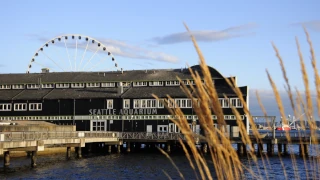
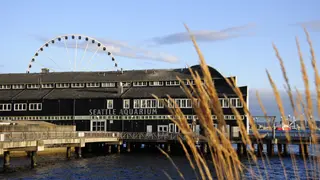
Aggiunto itinerario Twilight

diff --git a/itinerari/usa/pacific-north-west-twilight/scheda.md b/itinerari/usa/pacific-north-west-twilight/scheda.md
@@ -1,0 +1,69 @@
+Ci sono viaggi che fai per vedere un posto. E poi ce ne sono altri in cui parti sapendo che quel posto esiste davvero, ma dentro di te sai già che, una volta arrivata, non sarà più soltanto un luogo. Forks è uno di questi.
+
+Per chi non ha mai letto *Twilight*, è solo una piccola città della penisola olimpica, nel nord-ovest dello Stato di Washington, circondata da foreste e pioggia. Per chi ha letto il libro, invece, è il luogo in cui Bella Swan arrives lasciandosi alle spalle Phoenix, dove incontra Edward Cullen e dove la pioggia diventa un personaggio a sé. Noi siamo arrivate lì dopo aver attraversato una parte del Pacific Northwest: a quel punto il viaggio ha smesso di essere una semplice vacanza ed è diventato un modo per entrare dentro una storia.
+
+---
+
+## Port Angeles: le prime pagine della storia
+
+Il nostro viaggio comincia a **Port Angeles**. Nel romanzo è qui che Bella trascorre una delle prime serate lontano da Forks, si ritrova in difficoltà e viene salvata da Edward. 
+
+Entrare da **Bella Italia**, il ristorante della loro prima cena, ha qualcosa di straniante: non è più soltanto un nome sulla pagina, ma un luogo reale con tavoli, luci e persone. Poco distante, alla libreria **Port Book and News**, la sensazione è la stessa. Camminare per queste strade significa, a tutti gli effetti, passeggiare dentro i primi capitoli del libro.
+
+---
+
+## Forks: dove la finzione diventa realtà
+
+Poi arriva Forks, e qui tutto cambia. La città non ha bisogno di "ricreare" *Twilight*: **è** *Twilight*. Stephenie Meyer ha preso una mappa reale e l'ha trasformata nell'immaginario di milioni di lettori. Quando ci arrivi, inizi a riconoscere posti che non hai mai visto dal vivo:
+
+* **Forks High School:** Davanti alla scuola di Bella ed Edward capisci che non ti serve un set cinematografico perfetto: ti basta essere lì.
+* **I dettagli per i fan:** Piccoli elementi come il **Dr. Cullen Parking Spot** all'ospedale o la **Forks Police Department** (dove è impossibile non figurarsi lo sceriffo Charlie Swan) per un turista qualunque non vorrebbero dire nulla, ma per un lettore diventano tappe fondamentali.
+* **Il camioncino di Bella & la Swan House:** Vedere il furgone rosso e la casa di Bella significa dare forma concreta a qualcosa che è esistito per anni solo nella nostra testa. Davanti alla Swan House, Forks sembra una scenografia che nessuno ha mai dovuto costruire.
+* **Forever Twilight in Forks Collection:** In questo museo il mondo di *Twilight* entra definitivamente dentro di noi tra oggetti di scena, costumi e la celebre (e inquietante) bambola **Chuckesme**.
+
+### La Treaty Line
+Uno dei luoghi più iconici è la **Treaty Line**, il confine tra Forks e La Push. Il celebre cartello *"No vampires over this line"* fa sorridere, ma per un istante la mente trasforma un confine geografico in uno narrativo: oltre quella linea inizia il territorio Quileute, la storia di Jacob e un altro punto di vista sulla saga.
+
+---
+
+## La Push e la Hoh Rain Forest: la natura selvaggia
+
+A **La Push** l'atmosfera cambia: la foresta incontra l'oceano e le spiagge selvagge mostrano il paesaggio esatto scelto dalla Meyer: imponente, umido, quasi primordiale.
+
+Rientrando verso l'interno ci addentriamo nella **Hoh Rain Forest**. La foresta del film è una ricostruzione, ma quella reale è monumentale: muschio, alberi giganteschi e un silenzio ovattato. Se esiste un posto al mondo in cui la presenza di creature millenarie può sembrare plausibile, è proprio questo.
+
+---
+
+## In Oregon: la geografia del cinema
+
+Lasciata la penisola olimpica ci spostiamo in Oregon, ed è qui che entra in scena il **Twilight dei film**.
+
+### Le spiagge del cinema
+**Indian Beach** (all'Ecola State Park) è la La Push cinematografica, mentre poco distante, a **Cannon Beach**, la celebre **Haystack Rock** svetta tra la nebbia. È affascinante attraversare due versioni della stessa storia: quella immaginata leggendo e quella tradotta sul grande schermo.
+
+### Multnomah Falls: lo sfondo maestoso dell'Oregon
+
+Proseguendo lungo la Columbia River Gorge ci fermiamo alle **Multnomah Falls**, una delle cascate più imponenti e iconiche di tutto il Pacific Northwest. Anche qui la magia del cinema ha lasciato il segno: pur non essendo una delle location narrative del libro, la produzione del primo film ha girato diverse riprese attorno al celebre ponte in pietra (*Benson Bridge*) e lungo il salto d'acqua.
+Le cascate compaiono nei montaggi ambientali di passaggio e fanno da sfondo all'atmosfera della mitica scena della **partita di baseball dei Cullen**. Ritrovarsi di fronte alla massa d'acqua immersa tra i pini e la nebbia significa respirare a pieni polmoni quel tono selvaggio, cupo e romantico che definisce visivamente tutto l'universo cinematografico di *Twilight*.
+
+### Vernonia e St. Helens
+A **Vernonia** la Wauna Credit Union diventa la stazione di polizia di Forks per il regista, ma è a **St. Helens** che il primo film prende davvero vita. Qui troviamo il centro cittadino, la libreria, il Columbia Theatre e soprattutto il **vicolo** in cui Edward ferma la Volvo per salvare Bella. Percorrerlo dal vivo significa rievocare una delle scene più intime e cariche di tensione del film.
+
+### Portland, Carver Café e Kalama
+Dopo una breve tappa a **Portland** (dove la casa dei Cullen si intravede appena tra la fitta vegetazione), ci fermiamo al **Carver Café** a Damascus, il diner dove Bella e Charlie cenano insieme.
+
+Infine raggiungiamo la **Kalama High School**, la vera scuola usata nei film. Nel parcheggio davanti all'edificio è impossibile non figurarsi la scena del furgone che sbanda e la mano di Edward che lo blocca sul cofano, rivelando per la prima volta la sua forza sovrumana.
+
+---
+
+## Due Forks, un solo viaggio
+
+Alla fine, ripensando a tutti questi luoghi, è difficile dire dove finisca il viaggio e dove cominci la storia.
+Abbiamo inseguito le location dei film come si inseguono le tracce di una storia, e alla fine abbiamo capito che non stavamo cercando soltanto i luoghi di *Twilight*.
+Stavamo cercando il punto esatto in cui **un libro che avevamo immaginato per anni diventava finalmente un luogo che potevamo attraversare con i nostri piedi**.
+Forse è questo che rende speciale un viaggio così, non vedere semplicemente dove è stato girato un film, non fotografare una casa perché compare in una storia.
+Ma arrivare in un posto e sentire, anche solo per qualche secondo, che quella storia che avevi sempre tenuto dentro di te esiste davvero da qualche parte.
+Che Forks è lì. Che la foresta è lì. Che il Pacifico è lì. Che la strada continua oltre la curva.
+E che, se per un momento smetti di pensare che sei una turista e lasci spazio all'immaginazione, puoi quasi credere che Bella abbia appena attraversato quella strada, che Edward sia nascosto tra gli alberi, che Jacob sia da qualche parte oltre la Treaty Line.
+E che il mondo di *Twilight* non sia mai stato soltanto un mondo inventato.
+Perché per qualche giorno, nel nostro viaggio, **lo abbiamo attraversato davvero.**
